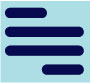
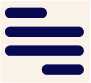
week2, 3rd commit: added more detailed CSS to navbar in correspondence to responsive screen size; changed color scheme and font; updated images

diff --git a/week2_responsivedesign/index.html b/week2_responsivedesign/index.html
@@ -5,6 +5,7 @@
     <meta http-equiv="X-UA-Compatible" content="IE=edge,chrome=1" />
     <meta name="viewport" content="width=device-width,initial-scale=1" />
 
+    <link href="https://fonts.googleapis.com/css?family=Raleway&display=swap" rel="stylesheet">
     <link rel="stylesheet" type="text/css" media="screen" href="style.css" />
 
     <title>My First Responsive Site!</title>
@@ -13,20 +14,22 @@
 <body>
     <header>
         <nav>
-            <img src="Assets/KH_Logo2.jpg" class="logo" alt="brand logo" id="imgnavlogo">
+            <img src="Assets/KH_Logo.jpg" class="logo" alt="brand logo" id="imgnavlogo">
 
             <label for="toggleAssist">
-                <img src="Assets/hamburger_navbar.jpg" class="toggle-button" alt="navbar toggle button">
+                <img src="Assets/hamburger_navbar.jpg" class="toggle-button" alt="navbar toggle button" id="hamnav">
             </label>
             <input type="checkbox" class="checkbox1" id="toggleAssist">
 
             <ul class="nav-links">
-                <li> <a href="boop">Orange</a> </li>
+                <li> <a class="active-link" href="index.html">Orange</a> </li>
                 <li> <a href="boop">Apple</a> </li>
                 <li> <a href="boop">Grape</a> </li>
                 <li> <a href="boop">Banana</a> </li>
             </ul>
         </nav>
+
+        <div class="navfix"></div>
 
     </header>
 

diff --git a/week2_responsivedesign/style.css b/week2_responsivedesign/style.css
@@ -1,22 +1,73 @@
 /* First responsive site */
-
 body {
     margin: 0px;
-    font-family: Arial, Helvetica, sans-serif;
+    background-color: rgb(250, 240, 230);
+    color: rgb(7, 7, 78);
+}
+
+nav {
+    position: fixed;
+    width: 100%;
+    height: 100px;
+    margin: auto;
+    font-family: 'Raleway';
+    font-weight: bold;
+}
+
+nav a {
+    text-decoration: none;
+    color: rgb(7, 7, 78);
+}
+
+.active-link {
+    text-decoration: underline;
+}
+
+a:hover {
+    color: chocolate;
+}
+
+
+#imgnavlogo {
+    width: 60px;
+    padding: 20px;
+}
+
+ul {
+    padding: 30px;
+    margin: 0px;
+}
+
+li {
+    display: inline-block;
+    padding: 20px;
+}
+
+.navfix {
+    height: 80px;
 }
 
 /* Navbar small screens */
-
+#hamnav {
+    width: 30px;
+    float: right;
+    padding: 15px;
+}
+    
 #toggleAssist, ul.nav-links {
     display: none;
 }
-
+    
 #toggleAssist:checked + ul.nav-links {
     display: block;
+    float: right;
+    text-align: right;
+    width: 100px;
+    padding: 0px;
+    background-color: rgb(250, 240, 230);
 }
 
-/* Navbar l;arger screens */
-
+/* Navbar larger screens */
 @media (min-width: 768px) {
     .toggle-button {
         display: none;
@@ -29,7 +80,7 @@ body {
 
     .nav-links li {
         display: inline-block;
-        padding: 10px;
+        margin: 0px 40px;
         border-bottom: none;
     }
 }
